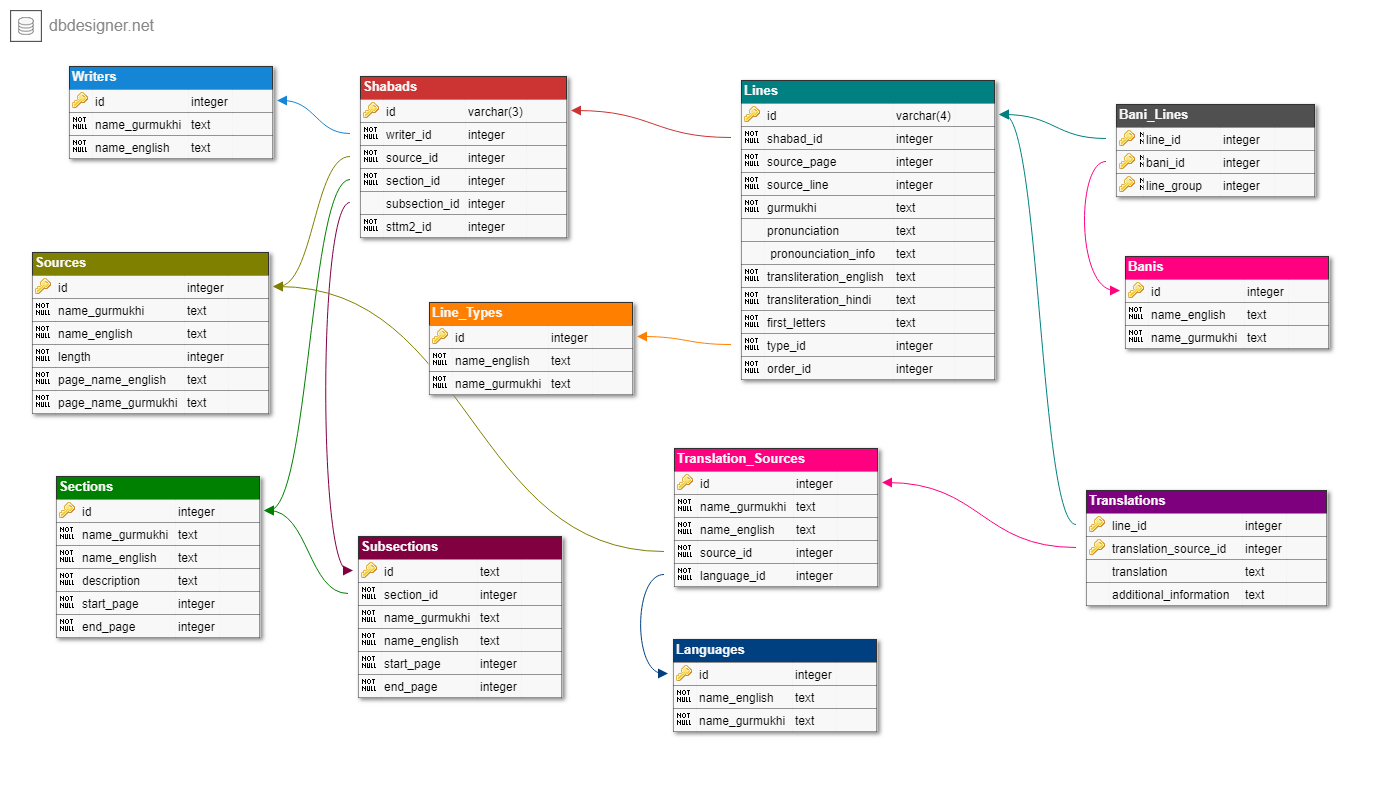
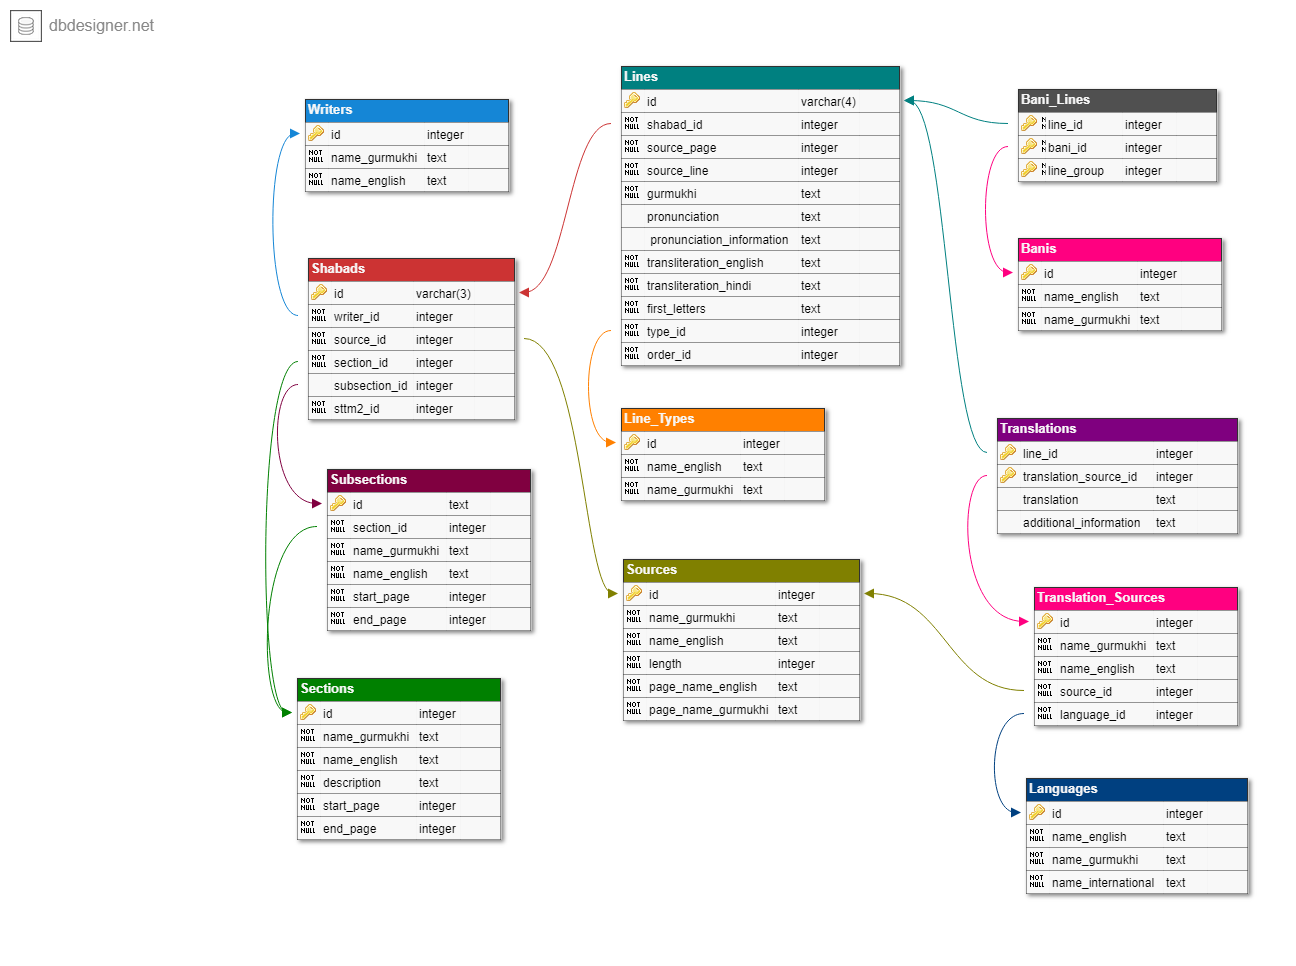
New schema implemented with knex

Changed region(s): [[0.0, 0.0, 0.9877, 0.8706], [0.463, 0.5597, 0.679, 0.9328], [0.7407, 0.5908, 0.9877, 0.9328]]

diff --git a/migrations/schema.js b/migrations/schema.js
@@ -1,80 +1,151 @@
 /**
- * Creates schema
+ * Sets up MySQL/MariaDB specific requirements.
+ * @param {*} table The table to apply the requirements to.
  */
-exports.up = knex => Promise.all( [
-  knex.schema.createTable( 'raags', table => {
-    table.increments( 'id' ).primary()
-    table.text( 'name' ).notNullable().unique()
-  } ),
-
-  knex.schema.createTable( 'sources', table => {
-    table.increments( 'id' ).primary()
-    table.text( 'name' ).notNullable().unique()
-  } ),
-
-  knex.schema.createTable( 'writers', table => {
-    table.increments( 'id' ).primary()
-    table.text( 'name' ).notNullable().unique()
-  } ),
-
-  knex.schema.createTable( 'shabad_types', table => {
-    table.increments( 'id' ).primary()
-    table.text( 'name' ).notNullable().unique()
-  } ),
-
-  knex.schema.createTable( 'shabads', table => {
-    table.increments( 'id' ).primary()
-    table.integer( 'ghar' )
-    table.integer( 'raag_id' ).references( 'id' ).inTable( 'raags' )
-    table.integer( 'type_id' ).references( 'id' ).inTable( 'shabad_types' )
-    table.integer( 'writer_id' ).references( 'id' ).inTable( 'writers' ).notNullable()
-    table.integer( 'source_id' ).references( 'id' ).inTable( 'sources' ).notNullable()
-  } ),
-
-  knex.schema.createTable( 'line_types', table => {
-    table.increments( 'id' ).primary()
-    table.text( 'name' ).notNullable().unique()
-  } ),
-
-  knex.schema.createTable( 'lines', table => {
-    table.increments( 'id' ).primary()
-    table.integer( 'ang' ).notNullable()
-    table.integer( 'shabad_id' ).references( 'id' ).inTable( 'shabads' ).notNullable()
-    table.integer( 'pada' )
-    table.integer( 'source_line' )
-    table.text( 'first_letters' )
-    table.text( 'gurmukhi' ).notNullable()
-    table.text( 'transliteration' )
-    table.text( 'translation' )
-    table.text( 'punjabi' )
-    table.text( 'pronunciation' )
-    table.integer( 'type_id' ).references( 'id' ).inTable( 'line_types' )
-  } ),
-
-  knex.schema.createTable( 'banis', table => {
-    table.increments( 'id' ).primary()
-    table.text( 'name' ).notNullable().unique()
-  } ),
-
-  knex.schema.createTable( 'bani_lines', table => {
-    table.integer( 'line_id' ).references( 'id' ).inTable( 'lines' )
-    table.integer( 'bani_id' ).references( 'id' ).inTable( 'banis' )
-    table.integer( 'line_group' ).notNullable()
-    table.primary( [ 'line_id', 'bani_id', 'line_group' ] )
-  } ),
-] )
+const setupMySQL = table => {
+  table.charset( 'utf8mb4_unicode_ci' )
+  table.collate( 'utf8mb4_unicode_ci' )
+  table.engine( 'Aria' )
+}
 
 /**
- * Drops schema
+ * The schema as per `schema.png`, defined by Knex statements.
  */
-exports.down = knex => Promise.all( [
-  knex.schema.dropTable( 'bani_lines' ),
-  knex.schema.dropTable( 'banis' ),
-  knex.schema.dropTable( 'lines' ),
-  knex.schema.dropTable( 'line_types' ),
-  knex.schema.dropTable( 'shabads' ),
-  knex.schema.dropTable( 'raags' ),
-  knex.schema.dropTable( 'writers' ),
-  knex.schema.dropTable( 'sources' ),
-  knex.schema.dropTable( 'shabad_types' ),
-] )
+exports.up = knex =>
+  Promise.all( [
+    knex.schema.createTable( 'sections', table => {
+      setupMySQL( table )
+      table.increments( 'id' ).primary()
+      table.text( 'name_gurmukhi' ).notNullable().unique()
+      table.text( 'name_english' ).notNullable().unique()
+      table.text( 'description' ).notNullable()
+      table.integer( 'start_page' ).notNullable()
+      table.integer( 'end_page' ).notNullable()
+    } ),
+
+    knex.schema.createTable( 'subsections', table => {
+      setupMySQL( table )
+      table.increments( 'id' ).primary()
+      table.integer( 'section_id' ).references( 'id' ).inTable( 'section' ).notNullable()
+      table.text( 'name_gurmukhi' ).notNullable()
+      table.text( 'name_english' ).notNullable()
+      table.integer( 'start_page' ).notNullable()
+      table.integer( 'end_page' ).notNullable()
+    } ),
+
+    knex.schema.createTable( 'sources', table => {
+      setupMySQL( table )
+      table.increments( 'id' ).primary()
+      table.text( 'name_gurmukhi' ).notNullable().unique()
+      table.text( 'name_english' ).notNullable().unique()
+      table.integer( 'length' ).notNullable()
+      table.text( 'page_name_english' ).notNullable()
+      table.text( 'page_name_gurmukhi' ).notNullable()
+    } ),
+
+    knex.schema.createTable( 'writers', table => {
+      setupMySQL( table )
+      table.increments( 'id' ).primary()
+      table.text( 'name_gurmukhi' ).notNullable().unique()
+      table.text( 'name_english' ).notNullable().unique()
+    } ),
+
+    knex.schema.createTable( 'shabads', table => {
+      setupMySQL( table )
+      table.string( 'id', '3' ).primary()
+      table.integer( 'source_id' ).references( 'id' ).inTable( 'sources' ).notNullable()
+      table.integer( 'writer_id' ).references( 'id' ).inTable( 'writers' ).notNullable()
+      table.integer( 'section_id' ).references( 'id' ).inTable( 'sections' ).notNullable()
+      table.integer( 'subsection_id' ).references( 'id' ).inTable( 'subsections' )
+      table.integer( 'sttm2_id' )
+    } ),
+
+    knex.schema.createTable( 'line_types', table => {
+      setupMySQL( table )
+      table.increments( 'id' ).primary()
+      table.text( 'name_gurmukhi' ).notNullable().unique()
+      table.text( 'name_english' ).notNullable().unique()
+    } ),
+
+    knex.schema.createTable( 'lines', table => {
+      setupMySQL( table )
+      table.string( 'id', 4 ).primary()
+      table
+        .string( 'shabad_id', 3 )
+        .references( 'id' )
+        .inTable( 'shabads' )
+        .notNullable()
+        .index()
+      table.integer( 'ang' ).notNullable()
+      table.integer( 'source_line' ).notNullable()
+      table.text( 'first_letters' ).notNullable()
+      table.text( 'gurmukhi' ).notNullable()
+      table.text( 'transliteration_englisg' ).notNullable()
+      table.text( 'transliteration_hindi' ).notNullable()
+      table.text( 'pronunciation' )
+      table.text( 'pronunciation_information' )
+      table.integer( 'type_id' ).references( 'id' ).inTable( 'line_types' )
+      table.increments( 'order_id' ).notNullable()
+    } ),
+
+    knex.schema.createTable( 'languages', table => {
+      setupMySQL( table )
+      table.increments( 'id' ).primary()
+      table.text( 'name_gurmukhi' ).notNullable().unique()
+      table.text( 'name_english' ).notNullable().unique()
+      table.text( 'name_international' ).notNullable().unique()
+    } ),
+
+    knex.schema.createTable( 'translation_sources', table => {
+      setupMySQL( table )
+      table.increments( 'id' ).primary()
+      table.text( 'name_gurmukhi' ).notNullable()
+      table.text( 'name_english' ).notNullable()
+      table.integer( 'source_id' ).references( 'id' ).inTable( 'sources' ).notNullable()
+      table.integer( 'language_id' ).references( 'id' ).inTable( 'languages' ).notNullable()
+    } ),
+
+    knex.schema.createTable( 'translations', table => {
+      setupMySQL( table )
+      table.string( 'line_id', 4 ).references( 'id' ).inTable( 'lines' ).notNullable()
+      table
+        .integer( 'translation_source_id' )
+        .references( 'id' )
+        .inTable( 'translation_sources' )
+        .notNullable()
+      table.text( 'translation' ).notNullable()
+      table.json( 'additional_information' )
+      table.primary( [ 'line_id', 'translation_source_id' ] )
+    } ),
+
+    knex.schema.createTable( 'banis', table => {
+      setupMySQL( table )
+      table.increments( 'id' ).primary()
+      table.text( 'name_gurmukhi' ).notNullable().unique()
+      table.text( 'name_english' ).notNullable().unique()
+    } ),
+
+    knex.schema.createTable( 'bani_lines', table => {
+      setupMySQL( table )
+      table.integer( 'line_id' ).references( 'id' ).inTable( 'lines' )
+      table.integer( 'bani_id' ).references( 'id' ).inTable( 'banis' )
+      table.integer( 'line_group' ).notNullable()
+      table.primary( [ 'line_id', 'bani_id', 'line_group' ] )
+    } ),
+  ] )
+
+// /**
+//  * Drops schema
+//  */
+// exports.down = knex =>
+//   Promise.all( [
+//     knex.schema.dropTable( 'bani_lines' ),
+//     knex.schema.dropTable( 'banis' ),
+//     knex.schema.dropTable( 'lines' ),
+//     knex.schema.dropTable( 'line_types' ),
+//     knex.schema.dropTable( 'shabads' ),
+//     knex.schema.dropTable( 'raags' ),
+//     knex.schema.dropTable( 'writers' ),
+//     knex.schema.dropTable( 'sources' ),
+//     knex.schema.dropTable( 'shabad_types' ),
+//   ] )
